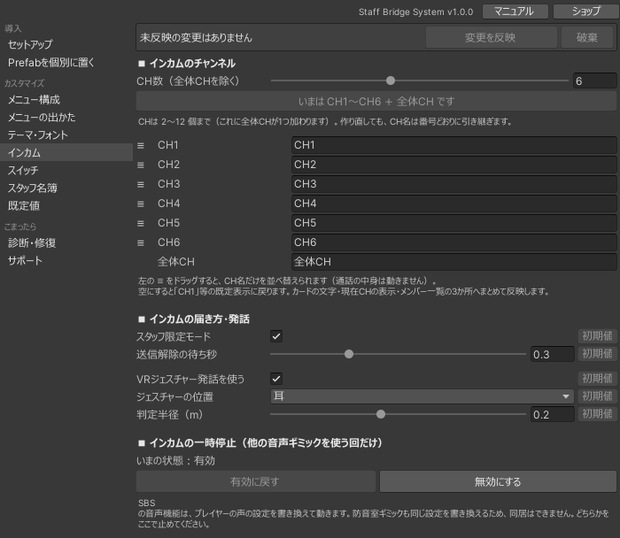
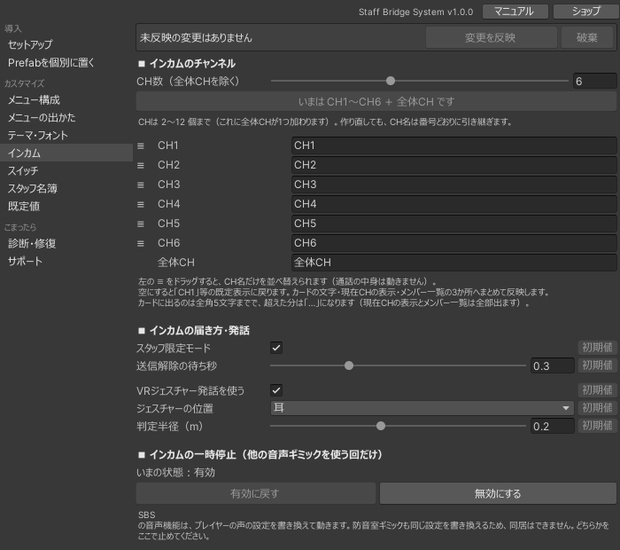
マニュアルを実装に合わせ、未参照だった画像を貼る
実装と食い違っていた2件を直した。
- 自分宛プレフィックスの既定は <b> であって <color> ではない
- インカムCHを増減する Tools メニュー項目は存在しない（入口はセットアップ窓のみ）

宛先グループを複数選べることが抜けていたので既存の文に足した。
配られているのに1度も貼られていなかった画像4枚を対応する節に貼り、
未参照の画像を0にした。ワールド内UIと専用ウィンドウの画像も配り直した。

スイッチの発火と同期の経路図は、SBSが同期するのが表示用の記録だけで
ギミックの状態は受け手の責務である点を描き直した。

diff --git a/docs/staff-bridge-system/features.md b/docs/staff-bridge-system/features.md
@@ -13,14 +13,14 @@
 | テレポート | 登録した地点と、在室スタッフのところへ移動する。相手の背後に着地する。★でお気に入りに入れると一覧の上に並ぶ | [使い方](usage.md#teleport) / [設定](reference.md#teleport) |
 | インカム | 同じチャンネルに参加している人だけに聞こえる通話。参加中のメンバーと、いま話している人が一覧に出る | [使い方](usage.md#incom) / [設定](reference.md#incom) |
 | メガホン | 距離に関係なく、スタッフ以外を含む全員へ声を届ける。ボタン長押し／Desktopキー／VRジェスチャー（左手）の3通りで始められる。VRは長押し／トグル／OFFを選択可能 | [使い方](usage.md#megaphone) / [設定](reference.md#megaphone) |
-| 一斉メッセージ | 全スタッフ、宛先グループ、選んだスタッフへ定型文を送る。グループと個人はまとめて選べ、複数に当てはまる人にも1通だけ届く | [使い方](usage.md#broadcast) / [設定](reference.md#broadcast) |
+| 一斉メッセージ | 全スタッフ、宛先グループ、選んだスタッフへ定型文を送る。グループは複数選べ、個人ともまとめられる。複数に当てはまる人にも1通だけ届く | [使い方](usage.md#broadcast) / [設定](reference.md#broadcast) |
 | タイマー | スタッフ全員に見える共有タイマーと、自分だけのタイマー・ストップウォッチ。時間になると短い通知音が鳴る | [使い方](usage.md#timer) / [設定](reference.md#timer) |
 | 入退室ログ | 誰がいつ入室・退室したかの記録 | [使い方](usage.md#timer) / [設定](reference.md#join-log) |
 | ノート | 全員に見える共有メモと、自分だけの走り書きメモ。進行台本やチェックリストの掲示に使う。どちらも視界の右下に出しておける | [使い方](usage.md#note) / [設定](reference.md#cue) |
 | スイッチ | 手元からワールド内のギミックへイベントを送る。誰がいつ押したかの履歴が残る | [使い方](usage.md#switch) / [設定](reference.md#trigger) |
 | 通知ログ | 受信・タイマーの時間切れ・人の出入りを、視界の隅の1本のログにまとめて流す。左下／左上／非表示を選択可能 | [使い方](usage.md#notice-log) / [設定](reference.md#notice-log) |
 | スタッフ管理 | 在室者を当日スタッフにする／当日スタッフを外す。常設スタッフで現在スタッフONの人だけが開けるタブ | [使い方](usage.md#staff-manage) / [設定](reference.md#grant-panel) |
-| 設定 | 音量・UI サイズ・発話方式・通知ログと視界ノートの位置を各自で調整する。再入場しても残る | [使い方](usage.md#settings) / [既定値](reference.md#settings-defaults) |
+| 設定 | 音量・UI サイズ・発話方式・通知ログとノートの位置を各自で調整する。再入場しても残る | [使い方](usage.md#settings) / [既定値](reference.md#settings-defaults) |
 
 ## シーンに置くもの
 

diff --git a/docs/staff-bridge-system/changelog.md b/docs/staff-bridge-system/changelog.md
@@ -24,15 +24,19 @@
 
 - 共有タイマー（スタッフ全員に同じ残り時間。開始と取消は2回押し）、ローカルタイマー、ストップウォッチ。タイマー到達時は通知音
 - 入退室ログ（入室＝緑・退室＝赤。全画面の一覧ページつき）
-- ノート（進行台本のページ表示と、自分だけの走り書きメモ）
+- ノート（進行台本のページ表示と、自分だけの走り書きメモ）。ノートの行数は短押しで1行ずつ、長押しで連続変更
 - スイッチ（手元からワールド内のギミックへイベントを送る。誰がいつ押したかの履歴を直近64件まで同期表示）
+
+- 設定は音・発話／メニュー／通知ログ／ノートの4項目
 
 **通知ログ**
 
 - メッセージ受信・タイマー到達・入退室・スタッフ権限の変化・スイッチ発火を、視界の隅の1本のログに集約
 - 種別ごとの色帯・時刻つき、本文は省略せず折り返し。最大5件・1件20秒（自分宛は枠つきで40秒）
+- 古い通知も文字の濃さを保持。通知・ノートの背景は各自が70%／85%／100%から別々に選べる（既定100%、再入場後も保持）
+- 入退室ログの色付き文字・通知の時刻・ノートの見出しをテーマの背景に合わせて調整。メッセージ履歴の自分宛表示は太字
 - 出す位置は各自が左下／左上／表示しないから選べる（再入場後も保持）
-- 設定の「表示位置を調整」で、通知ログと視界ノートを個別に横・縦へ移動できる（各±20 cm、個別初期化・再入場後の保持に対応）
+- 設定の「表示位置を調整」で、通知ログとノートを個別に横・縦へ移動できる（各±20 cm、個別初期化・再入場後の保持に対応）
 
 **インカム**
 

diff --git a/docs/staff-bridge-system/troubleshoot.md b/docs/staff-bridge-system/troubleshoot.md
@@ -90,7 +90,7 @@ FukuroUdon はバージョンによって内部のフィールド名が変わる
 ## 通知ログが出ない・邪魔になる
 
 - 出るのは**スタッフだけ**です。スタッフ状態を確認してください
-- 各自の設定タブで「表示しない」を選んでいると出ません。位置は左下・左上から選べます。ミラーと重なる場合は切り替えてください。画面端で読みづらい場合は「表示位置を調整」で通知ログと視界ノートの横・縦を個別に調整できます
+- 各自の設定タブで「表示しない」を選んでいると出ません。位置は左下・左上から選べます。ミラーと重なる場合は切り替えてください。画面端で読みづらい場合は「表示位置を調整」で通知ログとノートの横・縦を個別に調整できます
 - 人の出入りが多くて流れすぎる場合は、`StaffNoticeLog` の **入退室を表示する** を OFF にすると入退室が載らなくなります
 - 1件あたりの表示時間は `StaffNoticeLog` の **表示秒**（既定 20）で変えられます
 

diff --git a/docs/staff-bridge-system/howto.md b/docs/staff-bridge-system/howto.md
@@ -84,7 +84,7 @@
 | やりたいこと | 触る場所 |
 |---|---|
 | チャンネル名を「受付」などにしたい | インカムページ ＞ インカムのチャンネル |
-| チャンネルを増やす／減らす | インカムページ ＞ **チャンネル数**（2〜12）を決めてボタンを押す。`Tools ＞ MGR ＞ Staff Bridge System ＞ インカムCHを追加 ／ 削除（末尾から）` からも1本ずつ増減できます |
+| チャンネルを増やす／減らす | インカムページ ＞ **チャンネル数**（2〜12）を決めてボタンを押す |
 | 送信しっぱなしを防ぎたい | 既定値ページ ＞ **インカムの最大送信秒**（既定 120） |
 | Desktop のキー発話の候補を変えたい | 既定値ページ ＞ Desktopキー発話の候補（枠1は OFF 固定）。インカムとメガホンで共通の候補です |
 | スタッフ以外にインカムを聞かせたくない | インカムページ ＞ **スタッフ限定モード** を ON のまま使う（既定 ON・ワールドに焼き込み） |

diff --git a/docs/staff-bridge-system/reference.md b/docs/staff-bridge-system/reference.md
@@ -145,7 +145,7 @@
 | 項目 | 型 | 既定 | 内容 |
 |---|---|---|---|
 | 自分宛を強調する | bool | ON | 個別指定された自分宛メッセージを強調表示（全員宛には付かない） |
-| 自分宛プレフィックス | string | `<color=#FFD24D>【あなた宛】</color> ` | 自分宛メッセージの先頭に付ける目印 |
+| 自分宛プレフィックス | string | `<b>【あなた宛】</b> ` | 自分宛メッセージの先頭に付ける目印 |
 | 通知音 | AudioSource | — | 受信時に鳴らす音（任意） |
 | 送信音 | AudioSource | — | 送信した瞬間に自分にだけ鳴る確認音（任意） |
 
